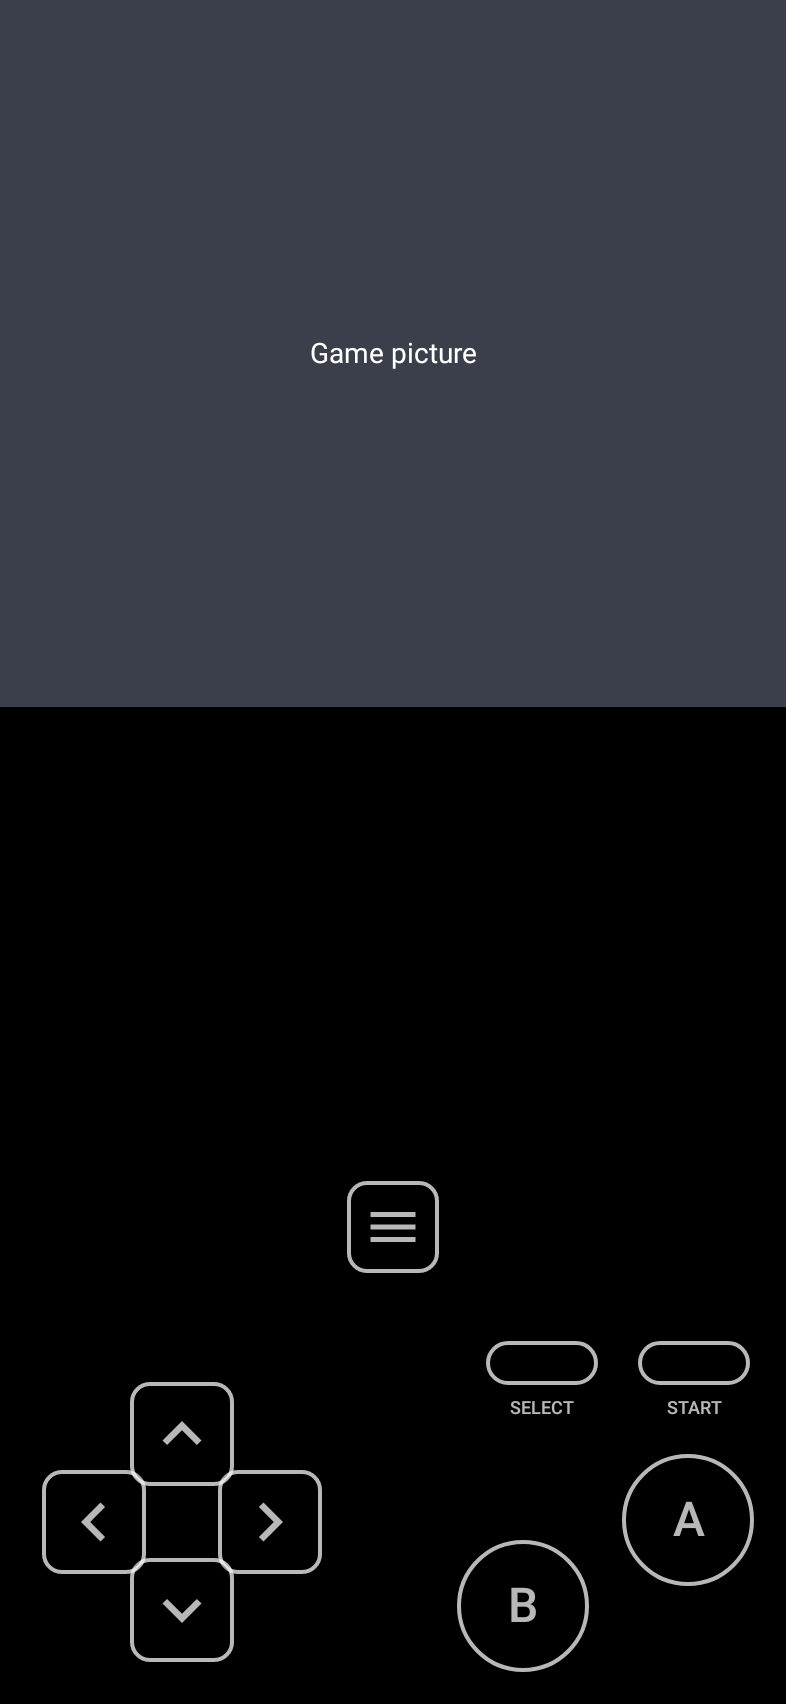
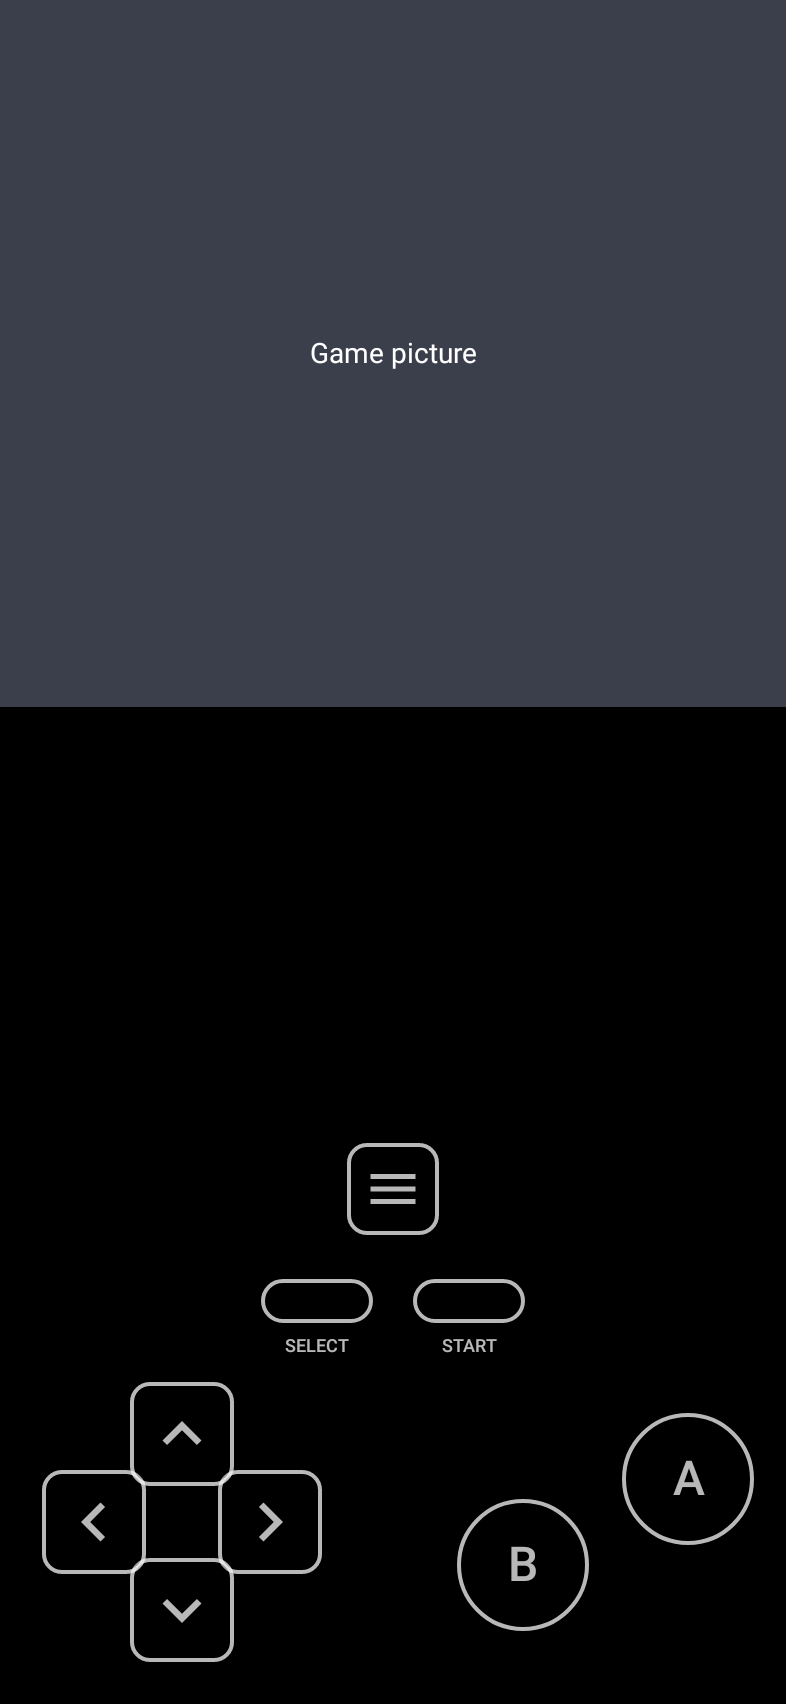
Center Select/Start in portrait and add screen size and position options
- Portrait handheld controls: Select and Start sit centered in their own
  row between the shoulder row and the D-pad/A-B row
- Game menu (GB, GBC, GBA): Screen size Fit or Sharp pixels (whole-number
  zoom of the native resolution) and Screen position Top or Middle
- The game area now takes the space the controls leave free
- Preview test renders the Sharp pixels + Middle variant too

Claude-Session: https://claude.ai/code/session_01PZdcJ5Msn5QruFvcFc3jaN

diff --git a/lemuroid-app/src/main/java/com/swordfish/lemuroid/app/mobile/feature/game/ClassicGamePad.kt b/lemuroid-app/src/main/java/com/swordfish/lemuroid/app/mobile/feature/game/ClassicGamePad.kt
@@ -45,6 +45,8 @@ import androidx.compose.ui.layout.boundsInRoot
 import androidx.compose.ui.layout.onGloballyPositioned
 import androidx.compose.ui.text.font.FontWeight
 import androidx.compose.ui.unit.Dp
+import androidx.compose.ui.unit.DpSize
+import androidx.compose.ui.platform.LocalDensity
 import androidx.compose.ui.unit.dp
 import androidx.compose.ui.unit.min
 import androidx.compose.ui.unit.sp
@@ -71,14 +73,30 @@ object ClassicGamePad {
     const val STROKE_DP = 2
 }
 
+/** How big the game picture is drawn. */
+enum class ClassicScreenSize {
+    // As large as the space allows, keeping the game's shape.
+    FIT,
+
+    // The largest whole-number zoom of the console's resolution, so every pixel is the same size.
+    SHARP_PIXELS,
+}
+
+/** Where the game sits in portrait, in the space above the controls. */
+enum class ClassicScreenPosition { TOP, MIDDLE }
+
 /** Places the game picture and, if [showControls], the controls. Reports where the game should draw. */
 @Composable
 fun PadKitScope.ClassicGameLayout(
     isLandscape: Boolean,
     gameAspectRatio: Float,
+    nativeWidth: Int,
+    nativeHeight: Int,
     hasShoulderButtons: Boolean,
     showControls: Boolean,
     settings: TouchControllerSettingsManager.Settings?,
+    screenSize: ClassicScreenSize = ClassicScreenSize.FIT,
+    screenPosition: ClassicScreenPosition = ClassicScreenPosition.TOP,
     onGameAreaPositioned: (Rect) -> Unit,
 ) {
     val scale =
@@ -88,39 +106,55 @@ fun PadKitScope.ClassicGameLayout(
         } ?: 1f
     val marginX = (settings?.marginX ?: 0f) * TouchControllerSettingsManager.MAX_MARGINS
     val marginY = (settings?.marginY ?: 0f) * TouchControllerSettingsManager.MAX_MARGINS
+    val density = LocalDensity.current
 
-    BoxWithConstraints(modifier = Modifier.fillMaxSize()) {
-        if (!isLandscape) {
-            // Leave at least this much room for the controls below the game.
-            val minControlsHeight = if (showControls) 300.dp * scale.coerceAtMost(1f) else 0.dp
-            val gameHeight = min(maxWidth / gameAspectRatio, maxHeight - minControlsHeight).coerceAtLeast(0.dp)
-            Column(modifier = Modifier.fillMaxSize().windowInsetsPadding(WindowInsets.safeDrawing.only(WindowInsetsSides.Top))) {
+    // Size of the game picture inside the given space.
+    fun gameSize(
+        availableWidth: Dp,
+        availableHeight: Dp,
+    ): DpSize {
+        if (availableWidth <= 0.dp || availableHeight <= 0.dp) return DpSize(0.dp, 0.dp)
+        val fitWidth = min(availableWidth, availableHeight * gameAspectRatio)
+        if (screenSize == ClassicScreenSize.FIT) return DpSize(fitWidth, fitWidth / gameAspectRatio)
+        with(density) {
+            val zoom = minOf(availableWidth.toPx() / nativeWidth, availableHeight.toPx() / nativeHeight).toInt()
+            if (zoom < 1) return DpSize(fitWidth, fitWidth / gameAspectRatio)
+            return DpSize((nativeWidth * zoom).toDp(), (nativeHeight * zoom).toDp())
+        }
+    }
+
+    if (!isLandscape) {
+        Column(modifier = Modifier.fillMaxSize().windowInsetsPadding(WindowInsets.safeDrawing.only(WindowInsetsSides.Top))) {
+            // The game takes the space the controls leave free.
+            BoxWithConstraints(modifier = Modifier.fillMaxWidth().weight(1f)) {
+                val size = gameSize(maxWidth, maxHeight)
                 Box(
                     modifier =
                         Modifier
-                            .fillMaxWidth()
-                            .height(gameHeight)
+                            .size(size)
+                            .align(if (screenPosition == ClassicScreenPosition.MIDDLE) Alignment.Center else Alignment.TopCenter)
                             .onGloballyPositioned { onGameAreaPositioned(it.boundsInRoot()) },
                 )
-                if (showControls) {
-                    PortraitControls(
-                        modifier =
-                            Modifier
-                                .fillMaxWidth()
-                                .weight(1f)
-                                .windowInsetsPadding(WindowInsets.navigationBars)
-                                .padding(start = 16.dp + marginX.dp, end = 16.dp + marginX.dp, top = 12.dp, bottom = 16.dp + marginY.dp),
-                        scale = scale,
-                        hasShoulderButtons = hasShoulderButtons,
-                    )
-                }
             }
-        } else {
+            if (showControls) {
+                PortraitControls(
+                    modifier =
+                        Modifier
+                            .fillMaxWidth()
+                            .windowInsetsPadding(WindowInsets.navigationBars)
+                            .padding(start = 16.dp + marginX.dp, end = 16.dp + marginX.dp, top = 12.dp, bottom = 16.dp + marginY.dp),
+                    scale = scale,
+                    hasShoulderButtons = hasShoulderButtons,
+                )
+            }
+        }
+    } else {
+        BoxWithConstraints(modifier = Modifier.fillMaxSize()) {
+            val size = gameSize(maxWidth, maxHeight)
             Box(
                 modifier =
                     Modifier
-                        .fillMaxHeight()
-                        .width(min(maxHeight * gameAspectRatio, maxWidth))
+                        .size(size)
                         .align(Alignment.Center)
                         .onGloballyPositioned { onGameAreaPositioned(it.boundsInRoot()) },
             )
@@ -145,28 +179,22 @@ private fun PadKitScope.PortraitControls(
     scale: Float,
     hasShoulderButtons: Boolean,
 ) {
-    // Everything sits low, where thumbs reach; the space under the game stays empty.
-    Box(modifier = modifier) {
-        Column(modifier = Modifier.align(Alignment.BottomCenter).fillMaxWidth()) {
-            Box(modifier = Modifier.fillMaxWidth()) {
-                if (hasShoulderButtons) {
-                    ShoulderButton(Modifier.align(Alignment.CenterStart), KeyEvent.KEYCODE_BUTTON_L1, "L", isLeft = true, scale = scale)
-                    ShoulderButton(Modifier.align(Alignment.CenterEnd), KeyEvent.KEYCODE_BUTTON_R1, "R", isLeft = false, scale = scale)
-                }
-                MenuButton(Modifier.align(Alignment.Center), scale)
+    // Three rows, low on the screen where thumbs reach:
+    // shoulder keys and menu, then Select and Start centered, then the D-pad and A/B.
+    Column(modifier = modifier, horizontalAlignment = Alignment.CenterHorizontally) {
+        Box(modifier = Modifier.fillMaxWidth()) {
+            if (hasShoulderButtons) {
+                ShoulderButton(Modifier.align(Alignment.CenterStart), KeyEvent.KEYCODE_BUTTON_L1, "L", isLeft = true, scale = scale)
+                ShoulderButton(Modifier.align(Alignment.CenterEnd), KeyEvent.KEYCODE_BUTTON_R1, "R", isLeft = false, scale = scale)
             }
-            Spacer(Modifier.height(28.dp * scale))
-            Box(modifier = Modifier.fillMaxWidth()) {
-                DPad(Modifier.align(Alignment.BottomStart), scale)
-                Column(
-                    modifier = Modifier.align(Alignment.BottomEnd),
-                    horizontalAlignment = Alignment.End,
-                ) {
-                    StartSelect(scale)
-                    Spacer(Modifier.height(18.dp * scale))
-                    FaceButtons(scale)
-                }
-            }
+            MenuButton(Modifier.align(Alignment.Center), scale)
+        }
+        Spacer(Modifier.height(16.dp * scale))
+        StartSelect(scale)
+        Spacer(Modifier.height(8.dp * scale))
+        Box(modifier = Modifier.fillMaxWidth()) {
+            DPad(Modifier.align(Alignment.CenterStart), scale)
+            FaceButtons(Modifier.align(Alignment.CenterEnd), scale)
         }
     }
 }

diff --git a/lemuroid-app/src/main/java/com/swordfish/lemuroid/app/mobile/feature/gamemenu/GameMenuHomeScreen.kt b/lemuroid-app/src/main/java/com/swordfish/lemuroid/app/mobile/feature/gamemenu/GameMenuHomeScreen.kt
@@ -6,11 +6,15 @@ import androidx.compose.foundation.rememberScrollState
 import androidx.compose.foundation.verticalScroll
 import androidx.compose.material.icons.Icons
 import androidx.compose.material.icons.filled.Sensors
+import androidx.compose.material.icons.outlined.AspectRatio
 import androidx.compose.material.icons.outlined.AutoFixHigh
+import androidx.compose.material.icons.outlined.VerticalAlignCenter
 import androidx.compose.material.icons.outlined.PhotoCamera
 import androidx.compose.material3.Icon
 import androidx.compose.material3.Text
 import androidx.compose.runtime.Composable
+import androidx.compose.runtime.remember
+import androidx.compose.ui.platform.LocalContext
 import androidx.compose.ui.Modifier
 import androidx.compose.ui.res.painterResource
 import androidx.compose.ui.res.stringResource
@@ -18,6 +22,9 @@ import androidx.navigation.NavController
 import com.alorma.compose.settings.storage.memory.rememberMemoryBooleanSettingState
 import com.alorma.compose.settings.storage.memory.rememberMemoryIntSettingState
 import com.swordfish.lemuroid.R
+import com.swordfish.lemuroid.app.mobile.feature.game.ClassicScreenPosition
+import com.swordfish.lemuroid.app.mobile.feature.game.ClassicScreenSettings
+import com.swordfish.lemuroid.app.mobile.feature.game.ClassicScreenSize
 import com.swordfish.lemuroid.app.mobile.feature.gamemenu.tilt.TiltConfigurationMenuEntry
 import com.swordfish.lemuroid.app.shared.GameMenuContract
 import com.swordfish.lemuroid.app.utils.android.settings.LemuroidSettingsList
@@ -124,6 +131,33 @@ fun GameMenuHomeScreen(
             )
         }
 
+        if (gameMenuRequest.game.systemId in HANDHELD_SYSTEMS) {
+            val context = LocalContext.current
+            val screen = remember { ClassicScreenSettings.read(context) }
+            LemuroidSettingsList(
+                title = { Text(text = stringResource(id = R.string.game_menu_screen_size)) },
+                items =
+                    listOf(
+                        stringResource(R.string.screen_size_fit),
+                        stringResource(R.string.screen_size_sharp),
+                    ),
+                icon = { Icon(Icons.Outlined.AspectRatio, contentDescription = null) },
+                state = rememberMemoryIntSettingState(ClassicScreenSize.values().indexOf(screen.size)),
+                onItemSelected = { index, _ -> ClassicScreenSettings.setSize(context, ClassicScreenSize.values()[index]) },
+            )
+            LemuroidSettingsList(
+                title = { Text(text = stringResource(id = R.string.game_menu_screen_position)) },
+                items =
+                    listOf(
+                        stringResource(R.string.screen_position_top),
+                        stringResource(R.string.screen_position_middle),
+                    ),
+                icon = { Icon(Icons.Outlined.VerticalAlignCenter, contentDescription = null) },
+                state = rememberMemoryIntSettingState(ClassicScreenPosition.values().indexOf(screen.position)),
+                onItemSelected = { index, _ -> ClassicScreenSettings.setPosition(context, ClassicScreenPosition.values()[index]) },
+            )
+        }
+
         LemuroidSettingsMenuLink(
             title = { Text(text = stringResource(id = R.string.game_menu_edit_touch_controls)) },
             icon = {
@@ -209,3 +243,6 @@ fun GameMenuHomeScreen(
         )
     }
 }
+
+// Systems that use the handheld layout with screen size and position options.
+private val HANDHELD_SYSTEMS = setOf("gb", "gbc", "gba")

diff --git a/lemuroid-app/src/main/java/com/swordfish/lemuroid/app/mobile/feature/game/ClassicScreenSettings.kt b/lemuroid-app/src/main/java/com/swordfish/lemuroid/app/mobile/feature/game/ClassicScreenSettings.kt
@@ -1,0 +1,61 @@
+package com.swordfish.lemuroid.app.mobile.feature.game
+
+import android.content.Context
+import android.content.SharedPreferences
+import androidx.compose.runtime.Composable
+import androidx.compose.runtime.DisposableEffect
+import androidx.compose.runtime.State
+import androidx.compose.runtime.mutableStateOf
+import androidx.compose.runtime.remember
+import androidx.compose.ui.platform.LocalContext
+
+/** Screen size and position for handheld games, chosen in the game menu and shared by all of them. */
+object ClassicScreenSettings {
+    private const val PREFERENCES = "classic_screen"
+    private const val KEY_SIZE = "size"
+    private const val KEY_POSITION = "position"
+
+    data class Values(
+        val size: ClassicScreenSize,
+        val position: ClassicScreenPosition,
+    )
+
+    private fun preferences(context: Context): SharedPreferences =
+        context.applicationContext.getSharedPreferences(PREFERENCES, Context.MODE_PRIVATE)
+
+    fun read(context: Context): Values {
+        val preferences = preferences(context)
+        return Values(
+            size = enumValueOrDefault(preferences.getString(KEY_SIZE, null), ClassicScreenSize.FIT),
+            position = enumValueOrDefault(preferences.getString(KEY_POSITION, null), ClassicScreenPosition.TOP),
+        )
+    }
+
+    fun setSize(
+        context: Context,
+        size: ClassicScreenSize,
+    ) = preferences(context).edit().putString(KEY_SIZE, size.name).apply()
+
+    fun setPosition(
+        context: Context,
+        position: ClassicScreenPosition,
+    ) = preferences(context).edit().putString(KEY_POSITION, position.name).apply()
+
+    /** Current values, updated as soon as they change (for example from the game menu). */
+    @Composable
+    fun rememberValues(): State<Values> {
+        val context = LocalContext.current
+        val state = remember { mutableStateOf(read(context)) }
+        DisposableEffect(context) {
+            val listener = SharedPreferences.OnSharedPreferenceChangeListener { _, _ -> state.value = read(context) }
+            preferences(context).registerOnSharedPreferenceChangeListener(listener)
+            onDispose { preferences(context).unregisterOnSharedPreferenceChangeListener(listener) }
+        }
+        return state
+    }
+
+    private inline fun <reified T : Enum<T>> enumValueOrDefault(
+        name: String?,
+        default: T,
+    ): T = enumValues<T>().firstOrNull { it.name == name } ?: default
+}

diff --git a/lemuroid-app/src/test/java/com/swordfish/lemuroid/app/mobile/feature/game/ClassicGamePadPreviewTest.kt b/lemuroid-app/src/test/java/com/swordfish/lemuroid/app/mobile/feature/game/ClassicGamePadPreviewTest.kt
@@ -51,11 +51,25 @@ class ClassicGamePadPreviewTest {
     @Config(qualifiers = "w393dp-h852dp-port-xhdpi")
     fun gbPortrait() = render("gb-portrait.png", isLandscape = false, aspect = 10f / 9f, shoulders = false)
 
+    @Test
+    @Config(qualifiers = "w393dp-h852dp-port-xhdpi")
+    fun gbaPortraitSharpMiddle() =
+        render(
+            "gba-portrait-sharp-middle.png",
+            isLandscape = false,
+            aspect = 3f / 2f,
+            shoulders = true,
+            size = ClassicScreenSize.SHARP_PIXELS,
+            position = ClassicScreenPosition.MIDDLE,
+        )
+
     private fun render(
         name: String,
         isLandscape: Boolean,
         aspect: Float,
         shoulders: Boolean,
+        size: ClassicScreenSize = ClassicScreenSize.FIT,
+        position: ClassicScreenPosition = ClassicScreenPosition.TOP,
     ) {
         // The pad library keeps a loop running, so step the clock by hand instead of waiting for idle.
         compose.mainClock.autoAdvance = false
@@ -81,6 +95,10 @@ class ClassicGamePadPreviewTest {
                     ClassicGameLayout(
                         isLandscape = isLandscape,
                         gameAspectRatio = aspect,
+                        nativeWidth = if (shoulders) 240 else 160,
+                        nativeHeight = if (shoulders) 160 else 144,
+                        screenSize = size,
+                        screenPosition = position,
                         hasShoulderButtons = shoulders,
                         showControls = true,
                         settings = null,

diff --git a/lemuroid-app/src/main/java/com/swordfish/lemuroid/app/mobile/feature/game/MobileGameScreen.kt b/lemuroid-app/src/main/java/com/swordfish/lemuroid/app/mobile/feature/game/MobileGameScreen.kt
@@ -158,9 +158,15 @@ fun MobileGameScreen(viewModel: BaseGameScreenViewModel) {
                 }
 
             if (classicAspectRatio != null) {
+                val screenValues = ClassicScreenSettings.rememberValues().value
+                val isGBA = currentControllerConfig?.touchControllerID == TouchControllerID.GBA
                 ClassicGameLayout(
                     isLandscape = isLandscape,
                     gameAspectRatio = classicAspectRatio,
+                    nativeWidth = if (isGBA) 240 else 160,
+                    nativeHeight = if (isGBA) 160 else 144,
+                    screenSize = screenValues.size,
+                    screenPosition = screenValues.position,
                     hasShoulderButtons = currentControllerConfig?.touchControllerID == TouchControllerID.GBA,
                     showControls = touchControllerSettings != null && touchControlsVisibleState.value,
                     settings = touchControllerSettings,
